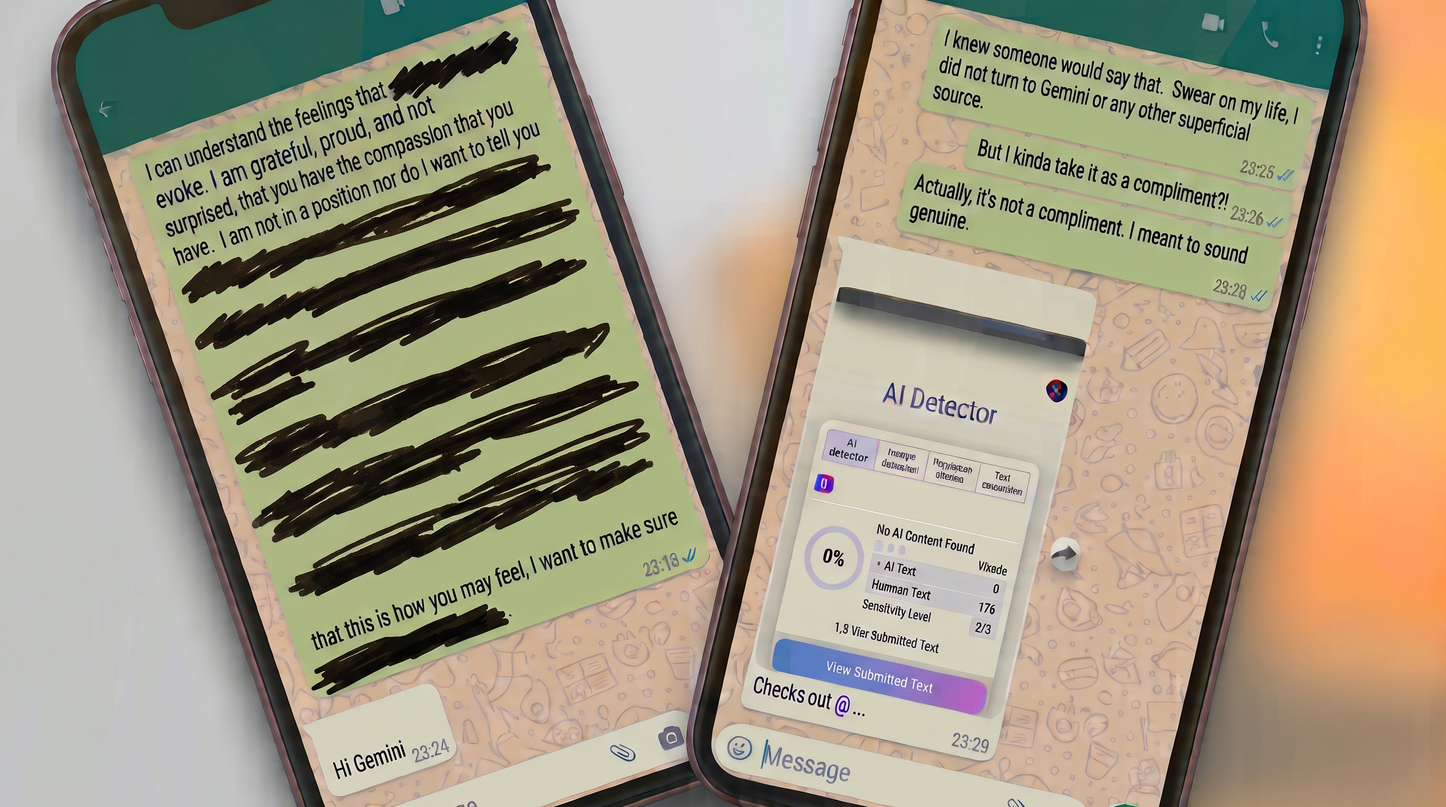
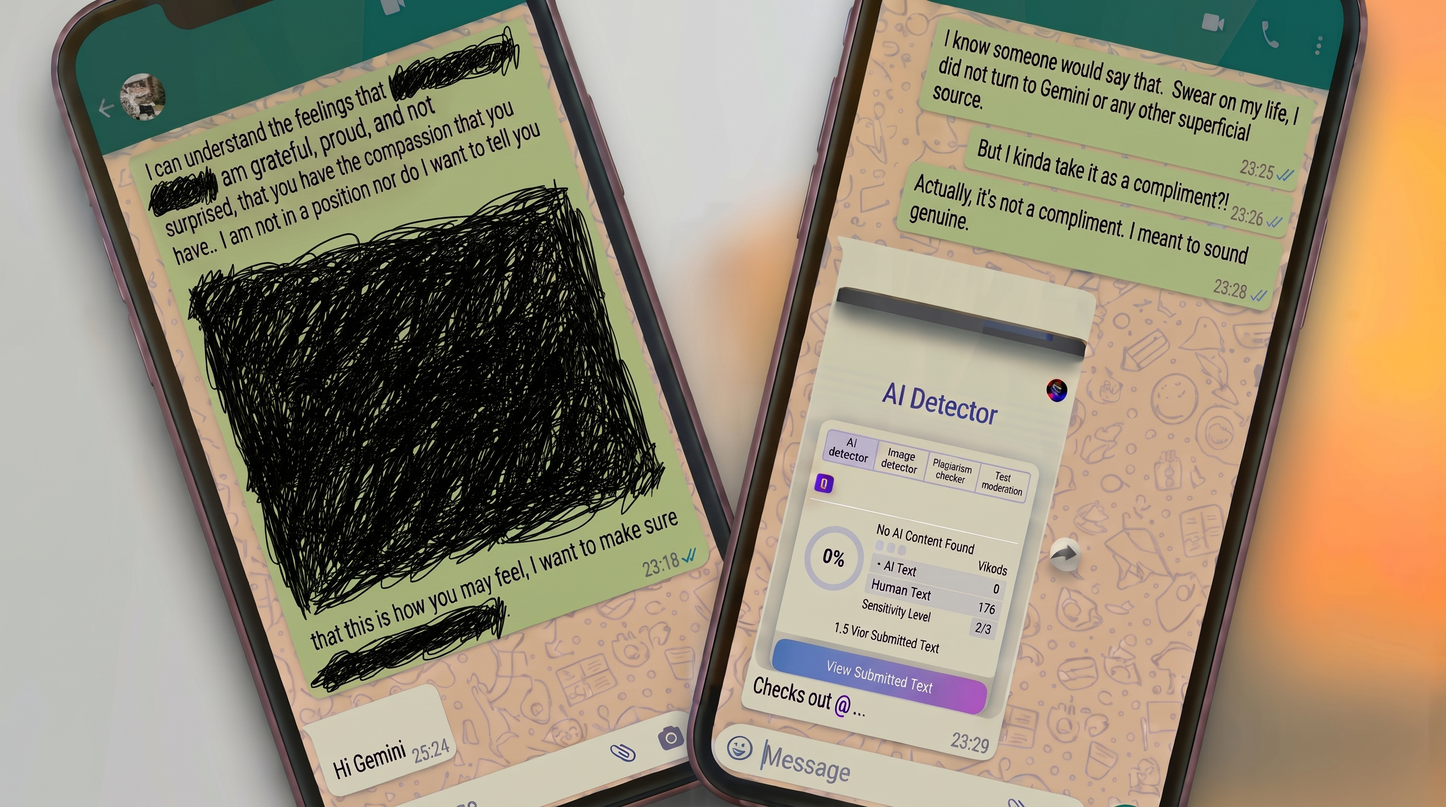
Update blog detail template with print styles and button enhancements; increment blog.min.css version to 2.3

diff --git a/templates/blog_detail.html b/templates/blog_detail.html
@@ -11,7 +11,144 @@
 {% block twitter_image %}{{ url_for('static', filename='images/blog/' + post.image_file, _external=True) }}{% endblock %}
 
 {% block extra_head_elements %}
-<link rel="stylesheet" href="{{ url_for('static', filename='css/blog.min.css') }}?v=2.1" />
+<link rel="stylesheet" href="{{ url_for('static', filename='css/blog.min.css') }}?v=2.3" />
+
+<style media="print">
+    @page {
+        margin: 0.8cm 0.6cm;
+        size: auto;
+    }
+
+    /* Hide everything outside the post content */
+    #header,
+    #nav,
+    #footer,
+    #copyright,
+    .preview-banner,
+    .draft-notice-banner,
+    .breadcrumb,
+    .centered-nav,
+    .interaction-group,
+    .detail-interactions,
+    .blog-footer,
+    #comments,
+    .blog_comment,
+    .comment-actions,
+    .reply-form,
+    #commentForm,
+    .mobile-back-btn,
+    .sticky-contact-widget,
+    .sticky-contact-card,
+    #flash-container,
+    #statusModal,
+    #resourceModal {
+        display: none !important;
+        visibility: hidden !important;
+    }
+
+    /* Reset containers for clean, edge-to-edge printable area */
+    html, body, #wrapper, #main, #nav + #main {
+        background: #ffffff !important;
+        background-color: #ffffff !important;
+        color: #111111 !important;
+        box-shadow: none !important;
+        border: none !important;
+        padding: 0 !important;
+        margin: 0 !important;
+        width: 100% !important;
+        max-width: 100% !important;
+    }
+
+    #main {
+        padding-top: 0 !important;
+        margin-top: 0 !important;
+    }
+
+    /* The blog post article */
+    article.post-detail {
+        display: block !important;
+        width: 100% !important;
+        max-width: 100% !important;
+        margin: 0 !important;
+        padding: 0 !important;
+    }
+
+    article.post-detail header h1 {
+        font-family: 'Roboto Slab', serif, Georgia !important;
+        font-size: 28pt !important;
+        line-height: 1.25 !important;
+        color: #111111 !important;
+        margin-top: 0 !important;
+        margin-bottom: 0.6em !important;
+        page-break-after: avoid;
+    }
+
+    /* Main article image & inline screenshots */
+    #main .post-detail .image.main,
+    .post-detail .image.main {
+        box-shadow: none !important;
+        border: 1px solid #e2e8f0 !important;
+        max-width: 95% !important;
+        margin: 1.2em auto !important;
+        background: transparent !important;
+        page-break-inside: avoid;
+    }
+
+    #main .post-detail .image.main img,
+    .post-detail .image.main img {
+        max-height: 480px !important;
+        object-fit: contain !important;
+        margin: 0 auto !important;
+    }
+
+    /* Summary callout box - sized for mobile PDF readability */
+    .blog-summary {
+        background-color: #f8fafc !important;
+        border-left: 5px solid #333333 !important;
+        color: #333333 !important;
+        padding: 16px 22px !important;
+        margin-bottom: 1.5em !important;
+        font-style: italic !important;
+        font-size: 19pt !important;
+        line-height: 1.6 !important;
+        page-break-inside: avoid;
+    }
+
+    /* Post paragraphs - scaled up so 8.5" PDF is readable on phones without zooming */
+    article.post-detail .content,
+    article.post-detail .content p,
+    article.post-detail p {
+        font-size: 19pt !important;
+        line-height: 1.65 !important;
+        color: #111111 !important;
+        orphans: 3;
+        widows: 3;
+    }
+
+    /* Substack blockquotes */
+    #main .post-detail blockquote,
+    .post-detail blockquote {
+        border-left: 4px solid #ff6719 !important;
+        background: transparent !important;
+        padding: 6px 0 6px 20px !important;
+        margin: 1.4em 0 !important;
+        font-size: 19pt !important;
+        line-height: 1.6 !important;
+        font-style: italic !important;
+        page-break-inside: avoid;
+    }
+
+    h1, h2, h3, h4, h5, h6 {
+        page-break-after: avoid;
+    }
+
+    article.post-detail h2,
+    article.post-detail h3 {
+        font-size: 22pt !important;
+        margin-top: 1.5em !important;
+        margin-bottom: 0.6em !important;
+    }
+</style>
 
 
 <!-- JSON-LD Structured Data -->
@@ -86,7 +223,10 @@
         <span style="font-size: 0.95rem; font-weight: 500;">Draft Preview &mdash; This post is <strong>not</strong> saved or published yet.</span>
     </div>
     <div style="display: flex; gap: 10px; align-items: center;">
-        <button type="button" onclick="window.close()" style="background: rgba(255,255,255,0.15); border: 1px solid rgba(255,255,255,0.3); color: #fff; padding: 6px 14px; border-radius: 4px; cursor: pointer; font-size: 0.85rem; font-weight: 600;">
+        <button type="button" onclick="window.print()" style="background: #38bdf8; border: 1px solid #38bdf8; color: #0f2d59; padding: 6px 14px; border-radius: 4px; cursor: pointer; font-size: 0.85rem; font-weight: 700; display: inline-flex; align-items: center; gap: 6px; box-shadow: 0 2px 4px rgba(0,0,0,0.15);">
+            <i class="fa-solid fa-print"></i> Print
+        </button>
+        <button type="button" onclick="window.close()" style="background: rgba(255,255,255,0.15); border: 1px solid rgba(255,255,255,0.3); color: #fff; padding: 6px 14px; border-radius: 4px; cursor: pointer; font-size: 0.85rem; font-weight: 600; display: inline-flex; align-items: center; gap: 6px;">
             <i class="fa-solid fa-xmark"></i> Close Preview
         </button>
     </div>
@@ -98,7 +238,10 @@
         <span style="font-size: 0.95rem; font-weight: 500;">You are viewing a private draft. It is hidden from the public and search engines.</span>
     </div>
     <div style="display: flex; gap: 10px; align-items: center;">
-        <a href="{{ url_for('admin.edit_post', post_id=post.id) }}" style="background: #ffffff; color: #78350f; padding: 6px 14px; border-radius: 4px; text-decoration: none; font-size: 0.85rem; font-weight: 700;">
+        <button type="button" onclick="window.print()" style="background: #fbbf24; border: 1px solid #fbbf24; color: #78350f; padding: 6px 14px; border-radius: 4px; cursor: pointer; font-size: 0.85rem; font-weight: 700; display: inline-flex; align-items: center; gap: 6px; box-shadow: 0 2px 4px rgba(0,0,0,0.15);">
+            <i class="fa-solid fa-print"></i> Print
+        </button>
+        <a href="{{ url_for('admin.edit_post', post_id=post.id) }}" style="background: #ffffff; color: #78350f; padding: 6px 14px; border-radius: 4px; text-decoration: none; font-size: 0.85rem; font-weight: 700; display: inline-flex; align-items: center; gap: 6px;">
             <i class="fa-solid fa-pen-to-square"></i> Edit / Publish
         </a>
     </div>
